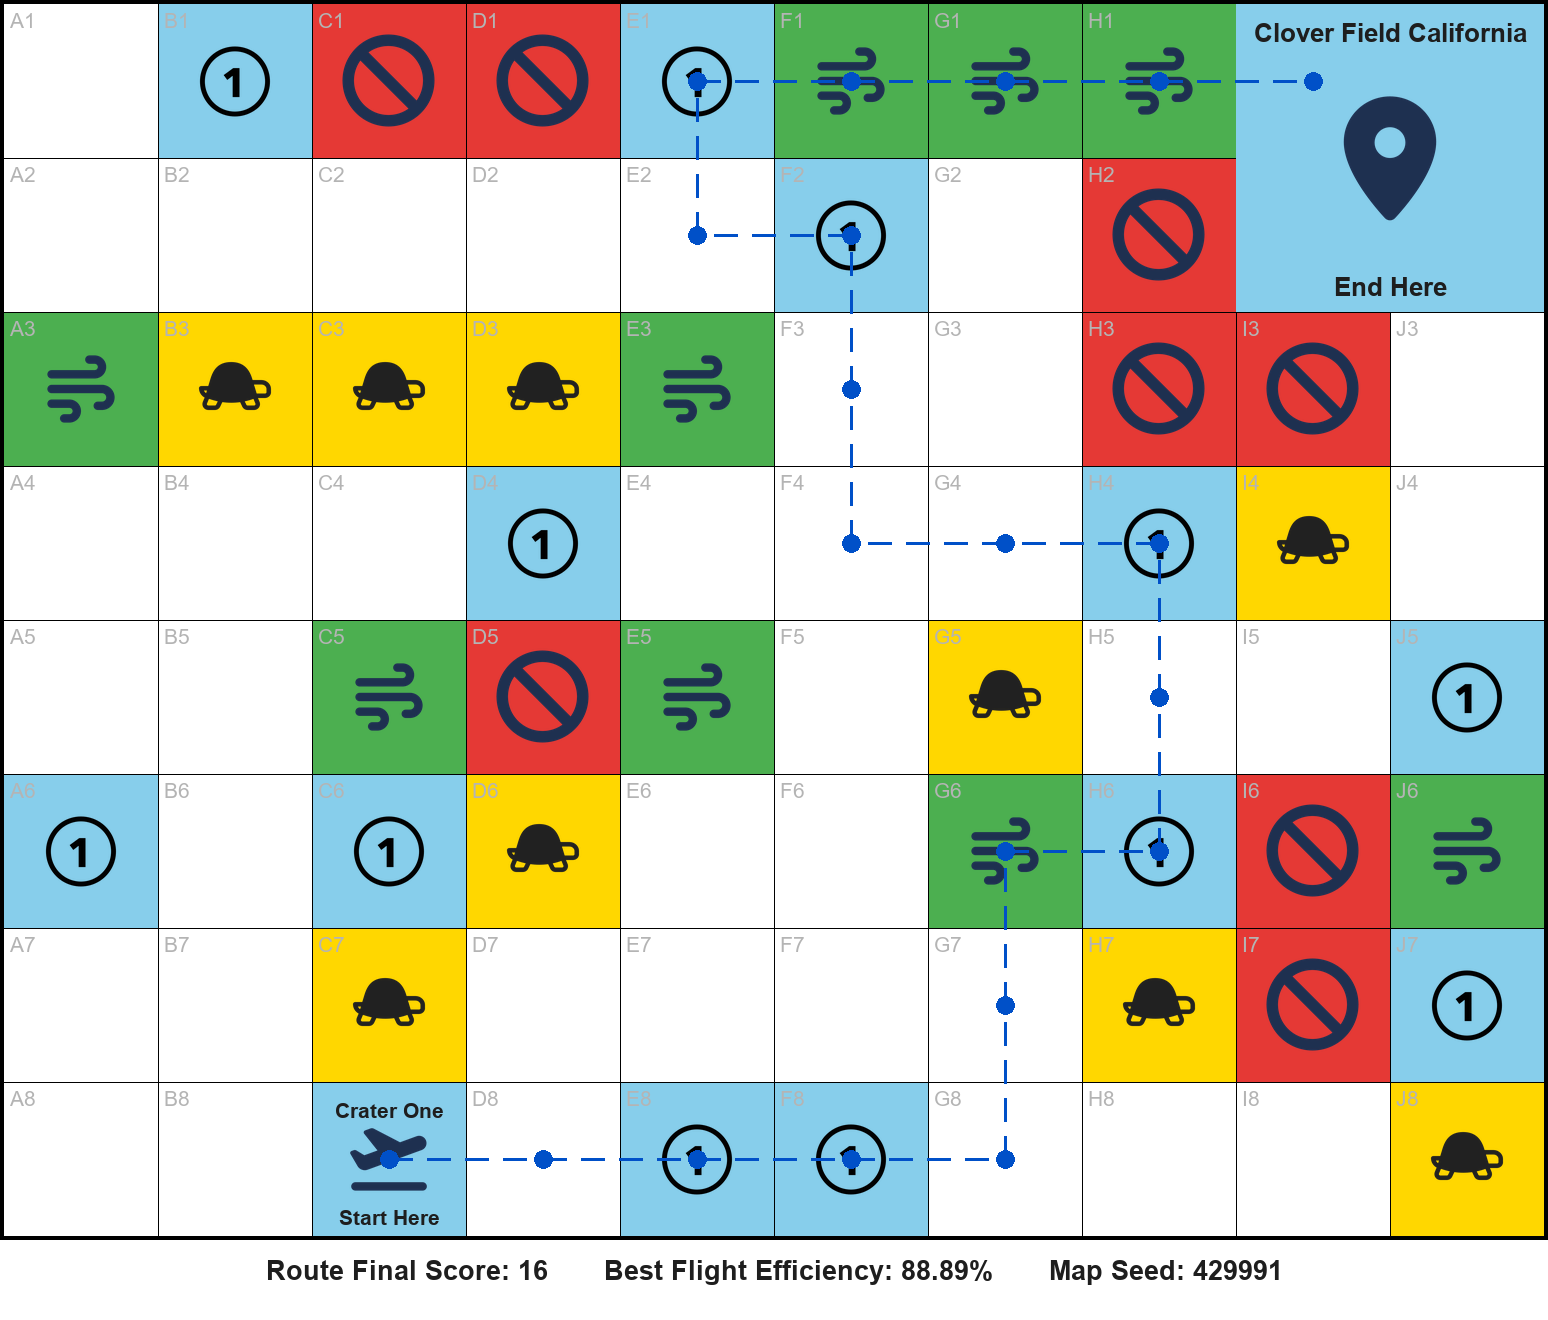
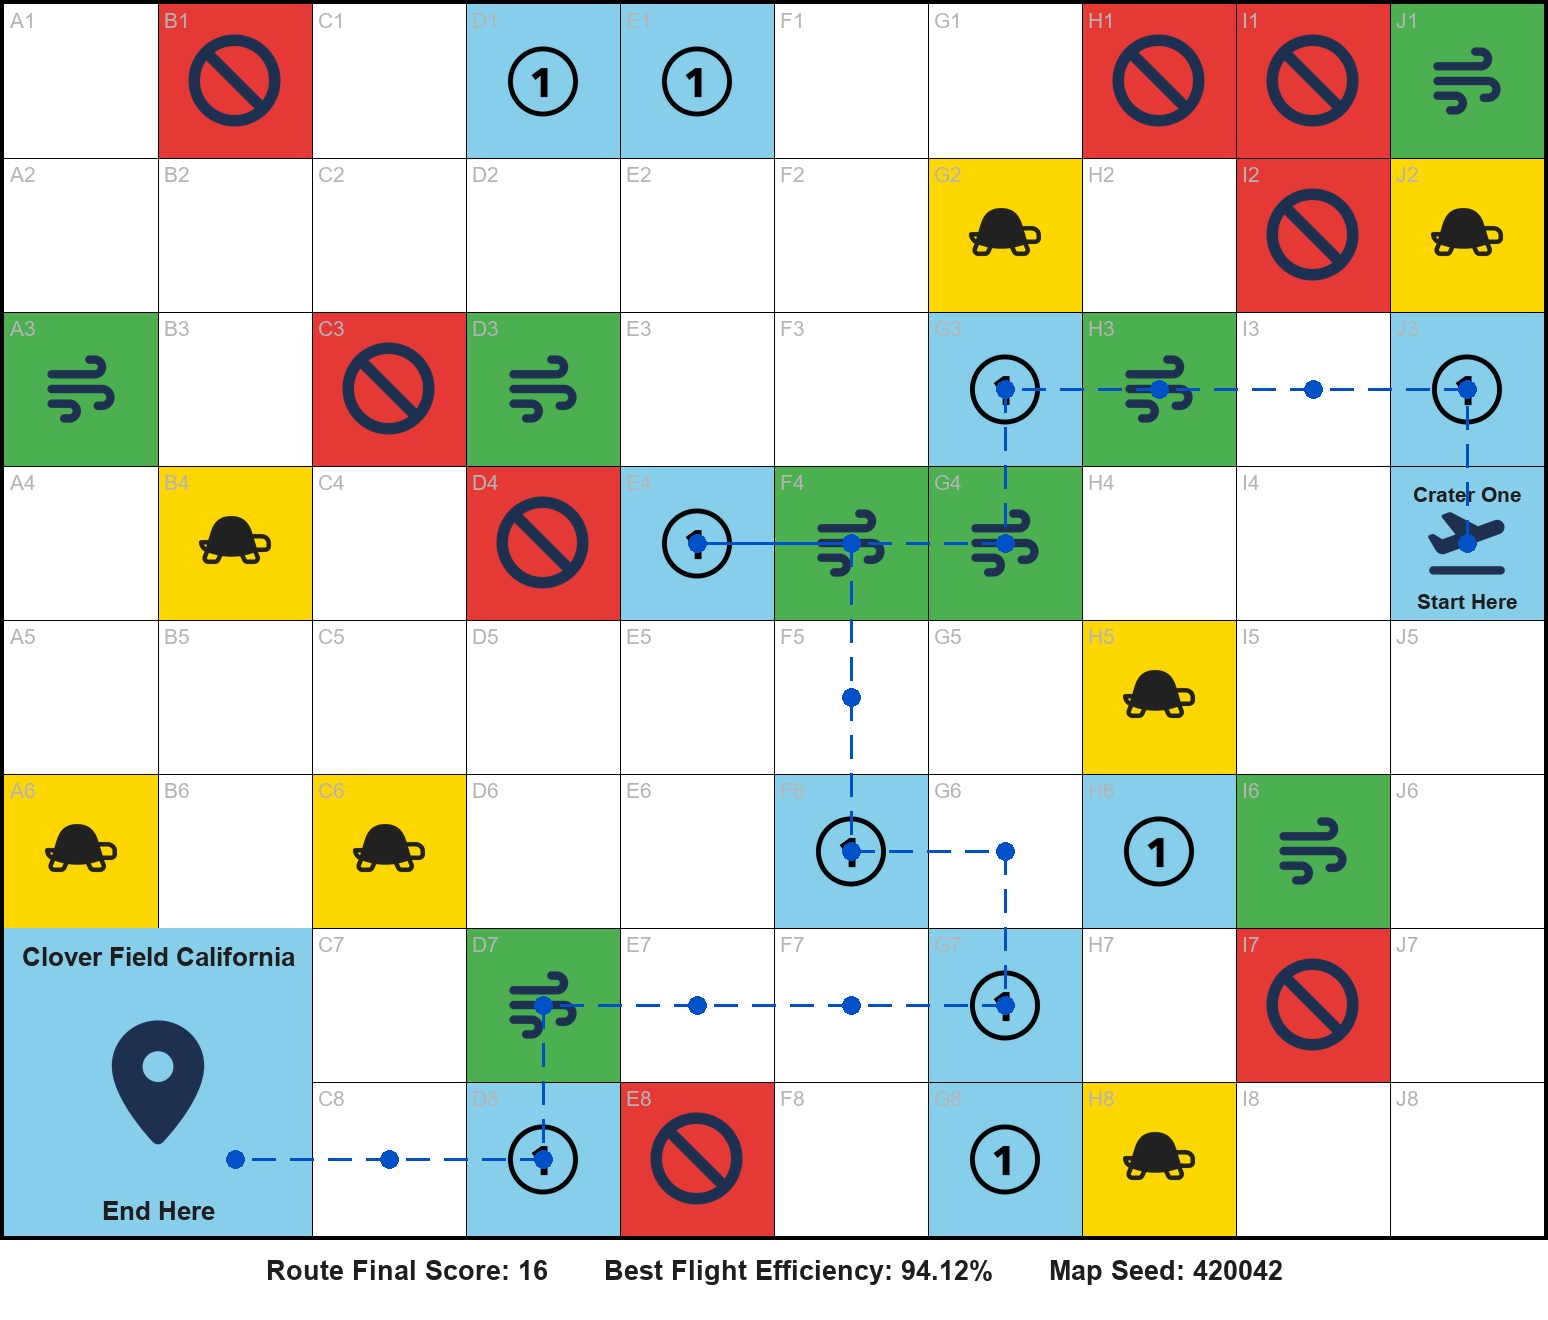
Milestone 02

diff --git a/generator.py b/generator.py
@@ -3,8 +3,9 @@ from collections import deque
 import random, math
 from render_map import render_all
 
-Length = 10 # Default is 10
-Height = 8 # Default is 8
+# Single page is 4 tiles high and 5 tiles wide
+Length = 30 # Default is 10
+Height = 4 # Default is 8
 
 # This prevents the start and end tiles from generating within a certain distance of each other
 Min_Start_Dis = 10
@@ -494,5 +495,5 @@ def _validate_seed(seed=None):
 
 s = 420042
 
-generated_board = generate_map(s, 10, 8, 7, 8)
+generated_board = generate_map(s, 10, 7, 7, 8)
 render_all(generated_board, seed=s)